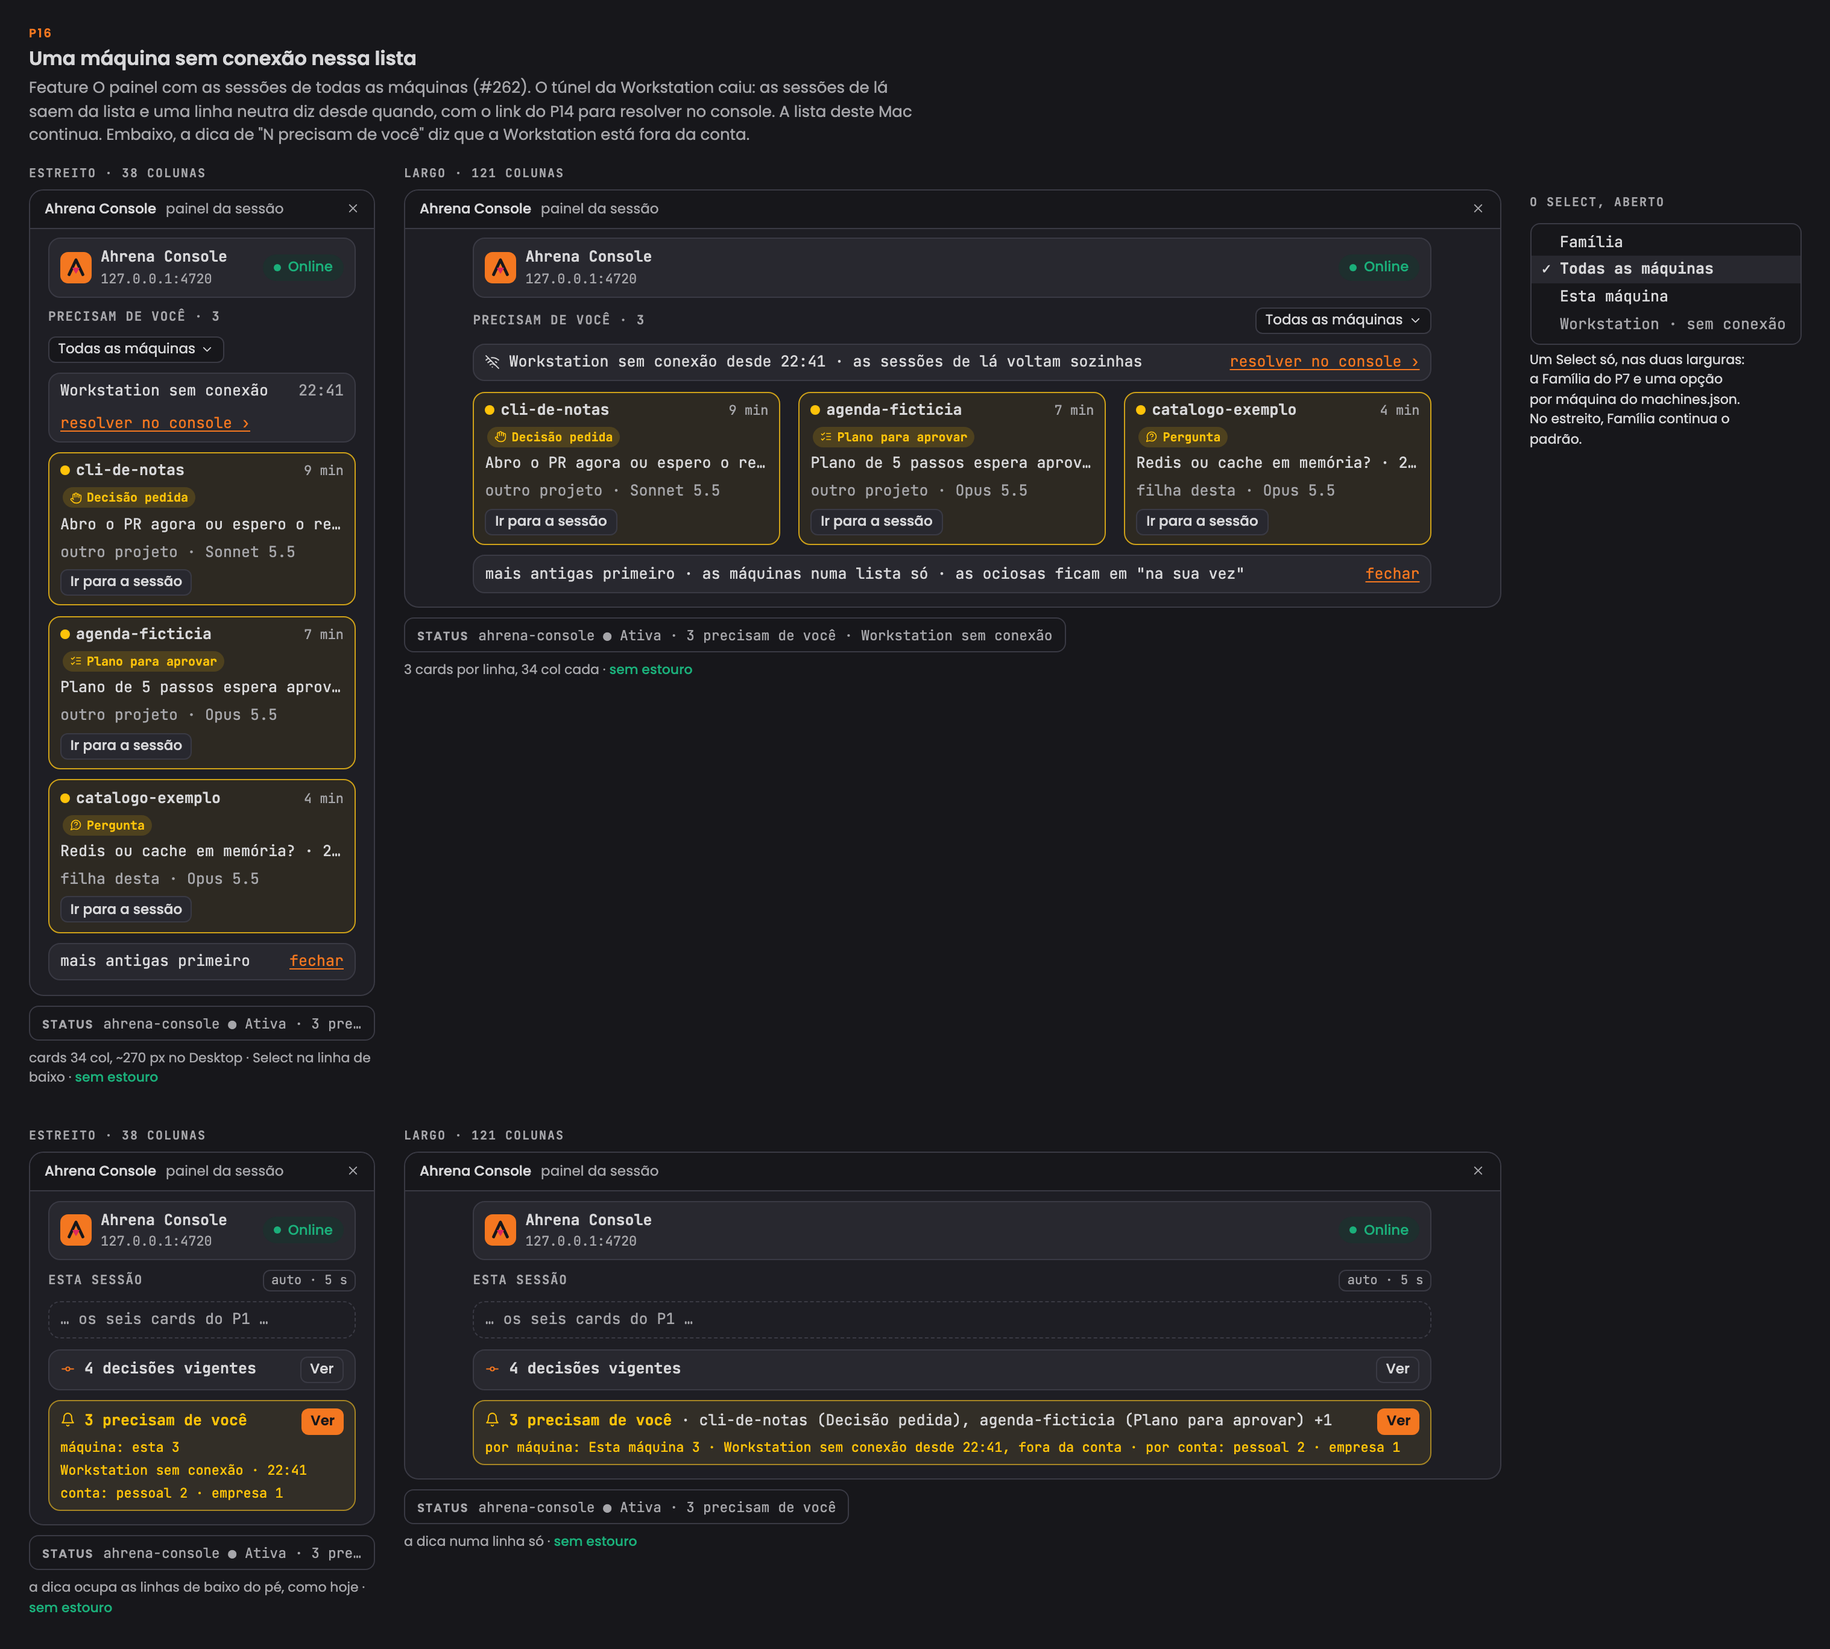
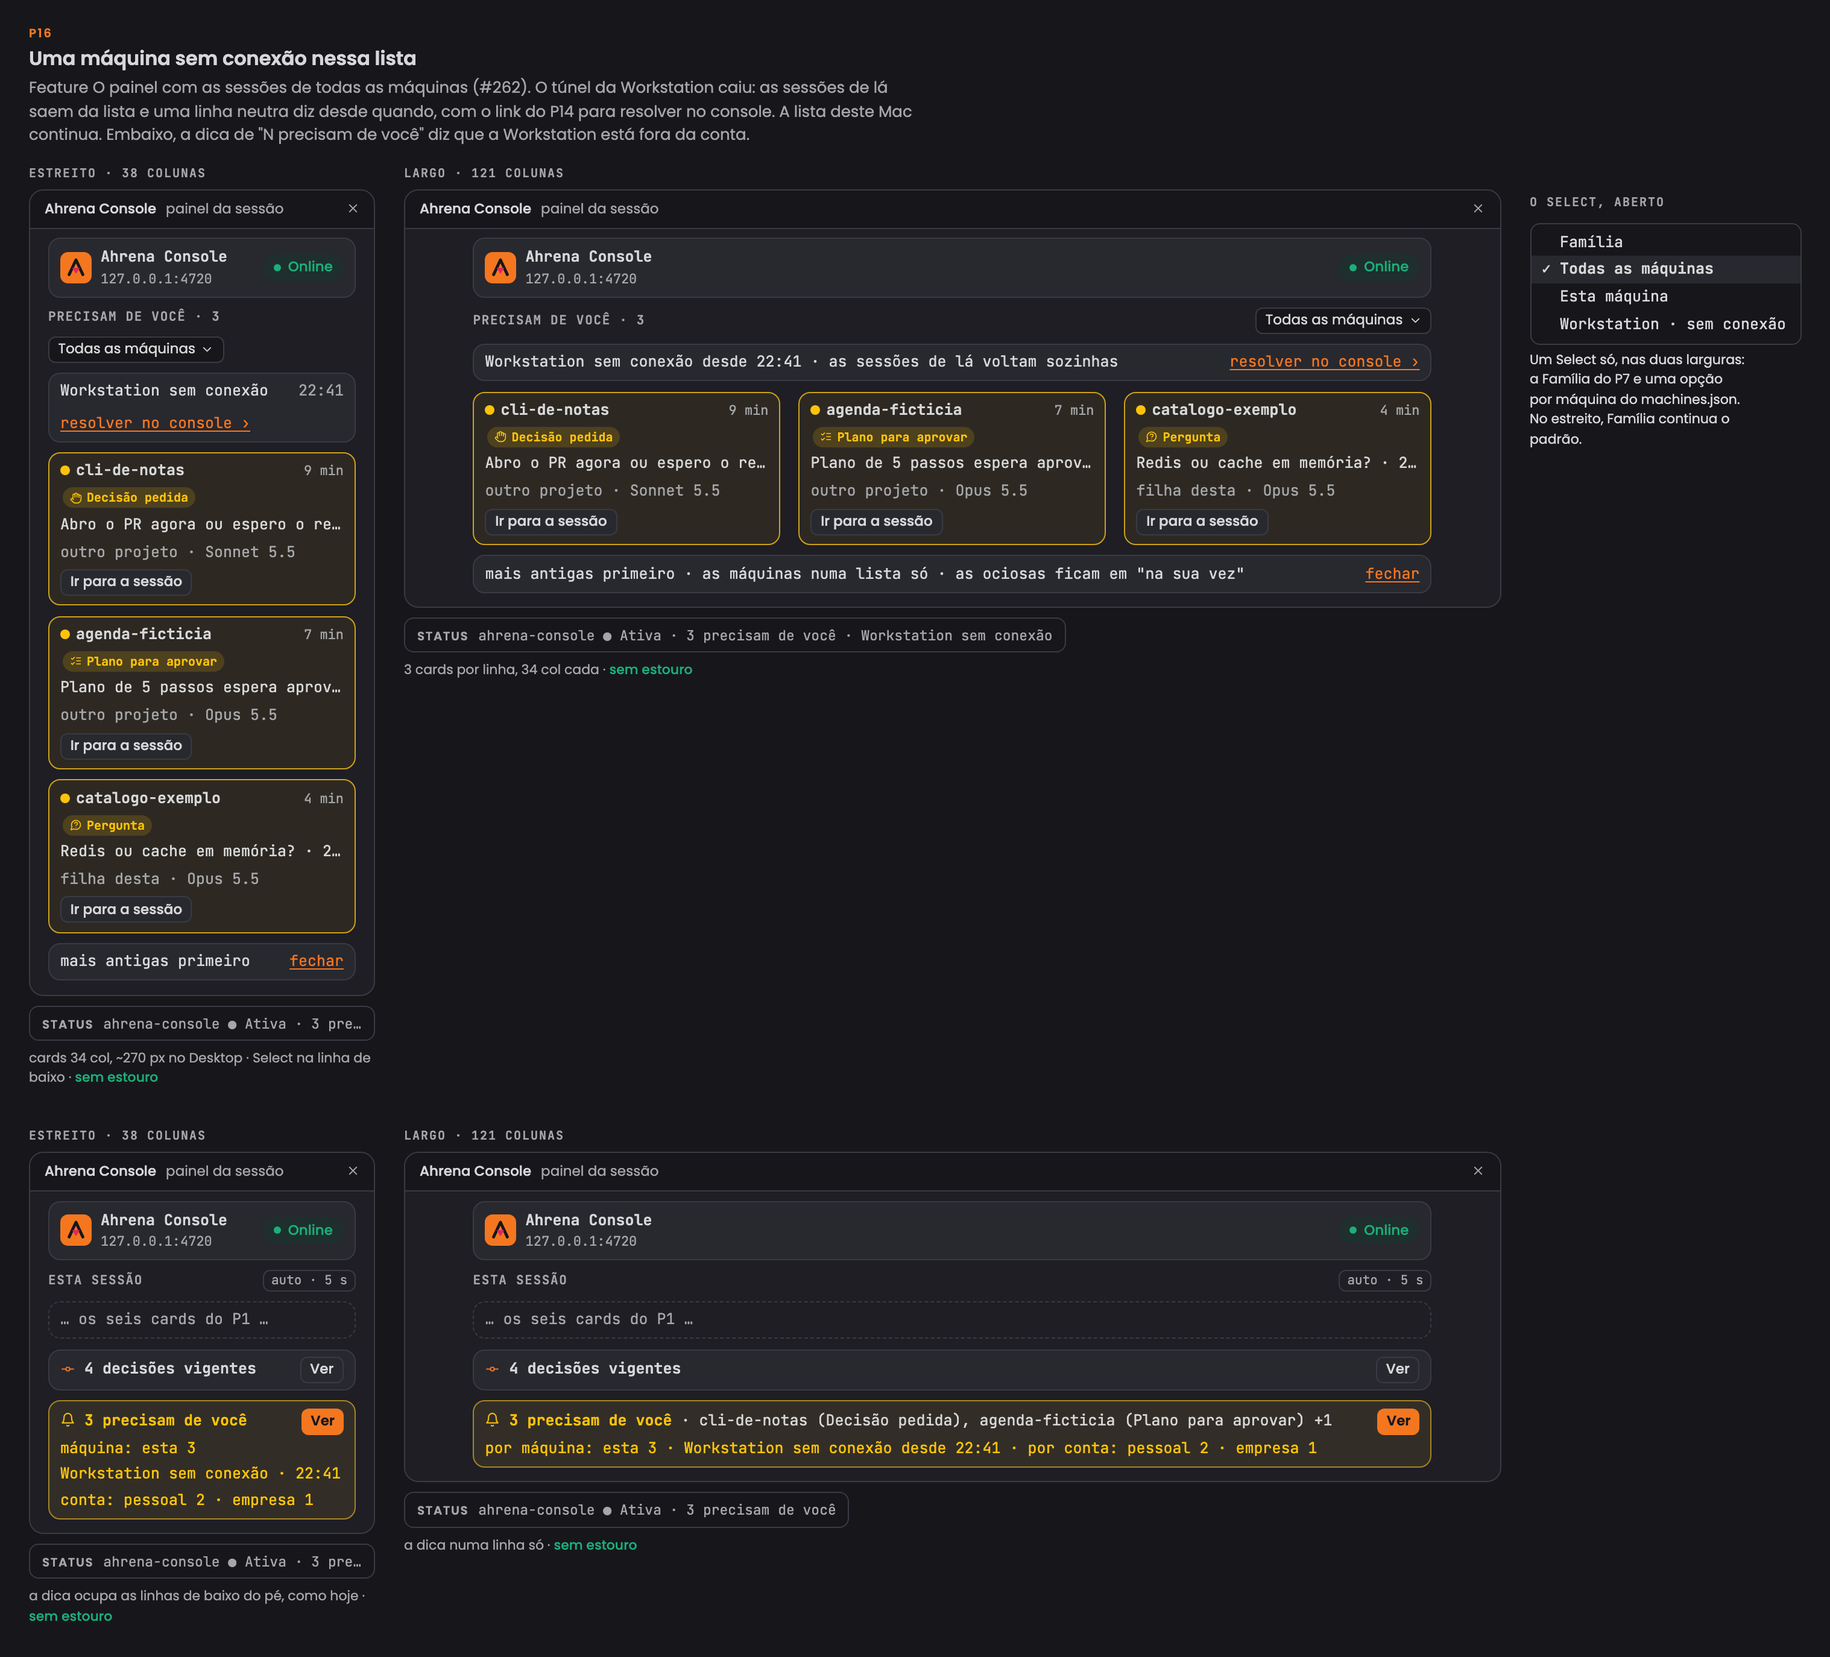
fix(262): review round 1 on the P15 and P16 wireframes
Rename painelMachines and its pt-BR locals to English, shorten the wide
offline tooltip so it fits 106 columns at the column font size, drop the
icon from the offline line and the per-option gray from the Select,
which the mod cannot draw.

Refs #262

diff --git a/docs/wireframes/index.html b/docs/wireframes/index.html
@@ -838,13 +838,12 @@ body.captura[data-width="1100"] .width-col[data-w="1440"], body.captura[data-wid
 .pn-hovered { flex-direction: column; align-items: stretch; gap: .2em; }
 .pn-hovered > .pn-hover-main { display: flex; align-items: center; gap: 1ch; min-width: 0; }
 .pn-hovered > .pn-hover-main .pn-btn { margin-left: auto; }
-.pn-hover-tip { color: var(--status-waiting-text); font-size: 11px; white-space: nowrap; overflow: hidden; text-overflow: ellipsis; }
+.pn-hover-tip { color: var(--status-waiting-text); white-space: nowrap; overflow: hidden; text-overflow: ellipsis; }
 .pn-placeholder { border: 1px dashed var(--border); border-radius: 10px; padding: .7ch 1.2ch; color: var(--muted); white-space: nowrap; overflow: hidden; text-overflow: ellipsis; }
 .pn-options { display: flex; flex-direction: column; gap: 4px; padding-top: 24px; font-family: var(--font-mono); font-size: 12.5px; }
 .pn-options .pn-option-list { border: 1px solid var(--border); border-radius: 8px; background: var(--bg); padding: 4px 0; width: 30ch; }
 .pn-options .pn-option-list div { padding: 2px 1.2ch; white-space: nowrap; }
 .pn-options .pn-option-list .on { background: var(--raised); font-weight: 600; }
-.pn-options .pn-option-list .off { color: var(--status-abandoned-text); }
 </style>
 
 <header class="topo">
@@ -3233,42 +3232,42 @@ function machineNeedCard(s) {
     <div class="ln">${go}</div></div>`
 }
 const machineSelect = (value, offline) => `<span class="pn-sel pn-machine-select">${value}${offline && value === 'Workstation' ? ' · sem conexão' : ''} ${ic('chevron-down')}</span>`
-function machineOfflineLine(largo) {
+function machineOfflineLine(wide) {
   // Neutral, like C48: the raised footer box, never the red band. P14's link, to the same console screen.
-  if (largo) return `<div class="pn-pe pn-machine-offline"><span class="mut">${ic('wifi-off')}</span><span class="pn-offline-text">Workstation sem conexão desde 22:41 · <span class="mut">as sessões de lá voltam sozinhas</span></span><span class="pn-link">resolver no console ›</span></div>`
+  if (wide) return `<div class="pn-pe pn-machine-offline"><span class="pn-offline-text">Workstation sem conexão desde 22:41 · <span class="mut">as sessões de lá voltam sozinhas</span></span><span class="pn-link">resolver no console ›</span></div>`
   // 34 columns: "Workstation sem conexão desde 22:41" is 35, so the hour goes to the right column, as in a card header.
-  // No icon here: the mod draws text, and the icon would push the hour out of the 32 inner columns.
+  // 32 inner columns: the hour takes the right column, like the time in a card header. No icon in either width: the mod draws text.
   return `<div class="pn-pe pn-machine-offline"><span class="pn-offline-text">Workstation sem conexão</span><span class="pn-offline-time">22:41</span><span class="pn-link" style="flex-basis:100%">resolver no console ›</span></div>`
 }
-function painelMachines(offline) {
+function panelMachines(offline) {
   const ids = offline ? ['d6c0e4a9', '8e17b6f2', '4d2a9c35'] : ['d6c0e4a9', '8e17b6f2', '4d2a9c35', '5a61c2bf', 'b91d04aa']
   const l = ids.map(byId)
-  const miolo = largo => `${pnServidor()}<div class="pn-sec">Precisam de você · ${l.length}${largo ? `<span style="margin-left:auto">${machineSelect('Todas as máquinas', offline)}</span>` : ''}</div>
-      ${largo ? '' : `<div class="pn-filter-row">${machineSelect('Todas as máquinas', offline)}</div>`}
-      ${offline ? machineOfflineLine(largo) : ''}
-      <div class="pn-grade" style="--cols:${largo ? 3 : 1}">${l.map(machineNeedCard).join('')}</div>
-      <div class="pn-pe"><span class="mut trunc">mais antigas primeiro${largo ? ' · as máquinas numa lista só · as ociosas ficam em "na sua vez"' : ''}</span><span class="pn-link" style="margin-left:auto">fechar</span></div>`
+  const body = wide => `${pnServidor()}<div class="pn-sec">Precisam de você · ${l.length}${wide ? `<span style="margin-left:auto">${machineSelect('Todas as máquinas', offline)}</span>` : ''}</div>
+      ${wide ? '' : `<div class="pn-filter-row">${machineSelect('Todas as máquinas', offline)}</div>`}
+      ${offline ? machineOfflineLine(wide) : ''}
+      <div class="pn-grade" style="--cols:${wide ? 3 : 1}">${l.map(machineNeedCard).join('')}</div>
+      <div class="pn-pe"><span class="mut trunc">mais antigas primeiro${wide ? ' · as máquinas numa lista só · as ociosas ficam em "na sua vez"' : ''}</span><span class="pn-link" style="margin-left:auto">fechar</span></div>`
   const st = offline ? '● Ativa · 3 precisam de você · Workstation sem conexão' : '● Ativa · 5 precisam de você'
-  const options = `<div class="pn-options"><p class="rotulo">O Select, aberto</p><div class="pn-option-list">${MACHINE_OPTIONS.map(o => `<div class="${o === 'Todas as máquinas' ? 'on' : offline && o === 'Workstation' ? 'off' : ''}"><span style="display:inline-block;width:2ch">${o === 'Todas as máquinas' ? '✓' : ''}</span>${o}${offline && o === 'Workstation' ? ' · sem conexão' : ''}</div>`).join('')}</div>
+  const options = `<div class="pn-options"><p class="rotulo">O Select, aberto</p><div class="pn-option-list">${MACHINE_OPTIONS.map(o => `<div class="${o === 'Todas as máquinas' ? 'on' : ''}"><span style="display:inline-block;width:2ch">${o === 'Todas as máquinas' ? '✓' : ''}</span>${o}${offline && o === 'Workstation' ? ' · sem conexão' : ''}</div>`).join('')}</div>
     <span class="mut" style="font-family:var(--font-sans);font-size:11px;max-width:26ch;white-space:normal">Um Select só, nas duas larguras: a Família do P7 e uma opção por máquina do machines.json. No estreito, Família continua o padrão.</span></div>`
-  const medida = largo => largo ? `3 cards por linha, 34 col cada · <b>sem estouro</b>` : `cards 34 col, ~270 px no Desktop · Select na linha de baixo · <b>sem estouro</b>`
-  return `<div class="fila">${pane(38, miolo, st, medida(false))}${pane(121, miolo, st, medida(true))}${options}</div>`
+  const measure = wide => wide ? `3 cards por linha, 34 col cada · <b>sem estouro</b>` : `cards 34 col, ~270 px no Desktop · Select na linha de baixo · <b>sem estouro</b>`
+  return `<div class="fila">${pane(38, body, st, measure(false))}${pane(121, body, st, measure(true))}${options}</div>`
 }
 // The "N precisam de você" line of P1, with the mouse over it: the count sums the machines, the tip splits it.
 function needYouHover(offline) {
   const n = offline ? 3 : 5
-  const tips = largo => offline
-    ? (largo ? ['por máquina: Esta máquina 3 · Workstation sem conexão desde 22:41, fora da conta · por conta: pessoal 2 · empresa 1']
+  const tips = wide => offline
+    ? (wide ? ['por máquina: esta 3 · Workstation sem conexão desde 22:41 · por conta: pessoal 2 · empresa 1']
       : ['máquina: esta 3', 'Workstation sem conexão · 22:41', 'conta: pessoal 2 · empresa 1'])
-    : (largo ? ['por máquina: Esta máquina 3 · Workstation 2 · por conta: pessoal 4 · empresa 1']
+    : (wide ? ['por máquina: Esta máquina 3 · Workstation 2 · por conta: pessoal 4 · empresa 1']
       : ['máquina: esta 3 · Workstation 2', 'conta: pessoal 4 · empresa 1'])
   const names = offline ? 'cli-de-notas (Decisão pedida), agenda-ficticia (Plano para aprovar) +1' : 'cli-de-notas (Decisão pedida), agenda-ficticia (Plano para aprovar) +3'
-  const miolo = largo => `${pnServidor()}<div class="pn-sec">Esta sessão<span class="r">auto · 5 s</span></div>
+  const body = wide => `${pnServidor()}<div class="pn-sec">Esta sessão<span class="r">auto · 5 s</span></div>
       <div class="pn-placeholder">… os seis cards do P1 …</div>${pnDec(4, 0)}
-      <div class="pn-pe tem pn-hovered"><div class="pn-hover-main"><span class="c-waiting">${ic('bell')}</span><b class="c-waiting">${n} precisam de você</b>${largo ? `<span class="mut trunc">· ${names}</span>` : ''}<span class="pn-btn">Ver</span></div>
-        ${tips(largo).map(t => `<div class="pn-hover-tip">${t}</div>`).join('')}</div>`
+      <div class="pn-pe tem pn-hovered"><div class="pn-hover-main"><span class="c-waiting">${ic('bell')}</span><b class="c-waiting">${n} precisam de você</b>${wide ? `<span class="mut trunc">· ${names}</span>` : ''}<span class="pn-btn">Ver</span></div>
+        ${tips(wide).map(t => `<div class="pn-hover-tip">${t}</div>`).join('')}</div>`
   const st = `● Ativa · ${n} precisam de você`
-  return `<div class="fila pn-below">${pane(38, miolo, st, 'a dica ocupa as linhas de baixo do pé, como hoje · <b>sem estouro</b>')}${pane(121, miolo, st, 'a dica numa linha só · <b>sem estouro</b>')}</div>`
+  return `<div class="fila pn-below">${pane(38, body, st, 'a dica ocupa as linhas de baixo do pé, como hoje · <b>sem estouro</b>')}${pane(121, body, st, 'a dica numa linha só · <b>sem estouro</b>')}</div>`
 }
 
 // ---------- cloud profiles per machine (C66 and C67, #277): each núcleo reads its own machine ----------
@@ -3813,7 +3812,7 @@ const TELAS = [
 
   { id: 'painel-connection', cod: 'P14', nome: 'Sessão numa máquina sem conexão', sub: 'Feature A conexão da máquina remota (#278). Numa sessão que roda na Workstation, quando o túnel caiu: uma faixa com o motivo (SSO expirado) e o link para resolver no console. O painel não roda nada.', html: painelConexao,
     n: N(['Nada.'], ['O mod não sobe túnel nem entra na AWS: a página do Claude Desktop não é a origem da /ui, e as escritas são de mesma origem (0003). O link abre a janela do app na C63, onde está o botão.', 'Sessões deste Mac não mostram a faixa.']) },
-  { id: 'panel-machines', cod: 'P15', nome: '"Ver" com todas as máquinas', sub: 'Feature O painel com as sessões de todas as máquinas (#262). A lista do P7 com as sessões deste Mac e da Workstation, juntas por idade. Cada card remoto diz a máquina; um Select só junta a Família do P7 e o filtro de máquina (Todas as máquinas · Esta máquina · Workstation). A sessão remota abre o detalhe no console. Embaixo, a linha "N precisam de você" com o mouse em cima: soma as duas máquinas, e a dica divide por máquina e por conta.', html: () => painelMachines(false) + needYouHover(false),
+  { id: 'panel-machines', cod: 'P15', nome: '"Ver" com todas as máquinas', sub: 'Feature O painel com as sessões de todas as máquinas (#262). A lista do P7 com as sessões deste Mac e da Workstation, juntas por idade. Cada card remoto diz a máquina; um Select só junta a Família do P7 e o filtro de máquina (Todas as máquinas · Esta máquina · Workstation). A sessão remota abre o detalhe no console. Embaixo, a linha "N precisam de você" com o mouse em cima: soma as duas máquinas, e a dica divide por máquina e por conta.', html: () => panelMachines(false) + needYouHover(false),
     n: N(['O SessionCard do Kanban, como no P7.', 'Do console (C45 a C47, #243): o filtro Todas · Esta máquina · Workstation, o rótulo "Workstation" em cinza só nos itens remotos, e "precisam de você" somando as duas máquinas.', 'Da bandeja (A6): a sessão remota sem "Abrir no Claude Desktop".'],
       ['O mod não tem ícone: no lugar do <code>server</code> do console vai a palavra "Workstation", em cinza, <b>no começo</b> da linha de meta. Essa linha encurta pelo fim, então o que corta é o modelo, nunca a máquina. Um glifo novo competiria com os do status (● ◐ ◌ ✓ ✕ ○) e pediria legenda; a palavra é o rótulo que o machines.json já dá.',
        'No card remoto, a máquina toma o lugar da relação ("filha desta", "outro projeto"): família é desta máquina, e "Workstation · Opus 5.5" cabe nas 34 colunas sem reticências (a aprovar).',
@@ -3825,13 +3824,14 @@ const TELAS = [
        'A sessão remota tem "abrir no console ›" (um Link para o detalhe na /ui, C49) no lugar de "Ir para a sessão", e o nome dela não é botão: o Claude Desktop deste Mac não abre uma sessão que roda na Workstation.',
        '"N precisam de você" soma as duas máquinas, como a bandeja e o Dashboard. A dica, que hoje mostra "por conta", ganha "por máquina" antes. No estreito são duas linhas (31 e 28 colunas); no largo, uma.',
        'Rótulos de conta "pessoal" e "empresa" são sintéticos.']) },
-  { id: 'panel-machine-offline', cod: 'P16', nome: 'Uma máquina sem conexão nessa lista', sub: 'Feature O painel com as sessões de todas as máquinas (#262). O túnel da Workstation caiu: as sessões de lá saem da lista e uma linha neutra diz desde quando, com o link do P14 para resolver no console. A lista deste Mac continua. Embaixo, a dica de "N precisam de você" diz que a Workstation está fora da conta.', html: () => painelMachines(true) + needYouHover(true),
-    n: N(['Nada do CCAM: ele só conhece uma máquina.', 'Do console (C48): as sessões remotas saem da lista e um aviso neutro, sem o vermelho de erro, diz desde quando; no filtro, a Workstation fica em cinza.', 'Do P14: "resolver no console ›", que abre a C63.'],
+  { id: 'panel-machine-offline', cod: 'P16', nome: 'Uma máquina sem conexão nessa lista', sub: 'Feature O painel com as sessões de todas as máquinas (#262). O túnel da Workstation caiu: as sessões de lá saem da lista e uma linha neutra diz desde quando, com o link do P14 para resolver no console. A lista deste Mac continua. Embaixo, a dica de "N precisam de você" diz que a Workstation está fora da conta.', html: () => panelMachines(true) + needYouHover(true),
+    n: N(['Nada do CCAM: ele só conhece uma máquina.', 'Do console (C48): as sessões remotas saem da lista e um aviso neutro, sem o vermelho de erro, diz desde quando; no filtro, a Workstation diz que está sem conexão.', 'Do P14: "resolver no console ›", que abre a C63.'],
       ['<b>Nunca erro:</b> a linha é a caixa neutra do pé (cinza), não a faixa vermelha do P14. Lá a sessão aberta é a remota; aqui a remota é uma parte da lista, e a lista deste Mac funciona.',
        'Sai a última leitura da Workstation, como nas listas do console (C48): uma sessão de 22:41 que "precisa de você" pode já ter andado. Quem quer a última leitura abre a máquina no console.',
        'No estreito, "Workstation sem conexão desde 22:41" tem 35 colunas: a hora vai para a coluna da direita, como o tempo no cabeçalho do card, e o link desce para a linha de baixo. No largo, a frase inteira numa linha.',
        'A contagem cai para 3, só deste Mac, e a linha de status diz que a Workstation está sem conexão. A dica diz "Workstation sem conexão", para o número menor não parecer que as sessões de lá andaram (a aprovar).',
-       'No Select, a opção Workstation fica em cinza com "sem conexão" e continua escolhível: escolhida, a lista fica vazia com a mesma linha neutra.',
+       'No Select, a opção Workstation diz "Workstation · sem conexão" no próprio rótulo (o Select do mod recebe só valor e rótulo, sem cor por opção) e continua escolhível: escolhida, a lista fica vazia com a mesma linha neutra.',
+       'Sem ícone na linha neutra, nas duas larguras: o mod desenha texto (o <code>wifi-off</code> é do console, C48).',
        'O mod não reconecta nem sobe o túnel: o link leva ao console, como no P14.']) },
   { cap: 'app', titulo: 'App de bandeja (Tauri)', desc: 'O app da decisão 0005 (issues #87 e #88): bandeja, menu e notificação nativos do macOS, e a janela com a interface que o núcleo serve.' },
   { id: 'app-bandeja-0', cod: 'A1', nome: 'Bandeja sem ninguém precisando de você', sub: 'Ninguém precisa de você: só o ícone na barra de menus. As ociosas aparecem só como contagem cinza no resumo.', html: () => `<div class="fila"><div class="mac">${APP.zero()}</div></div>`,
